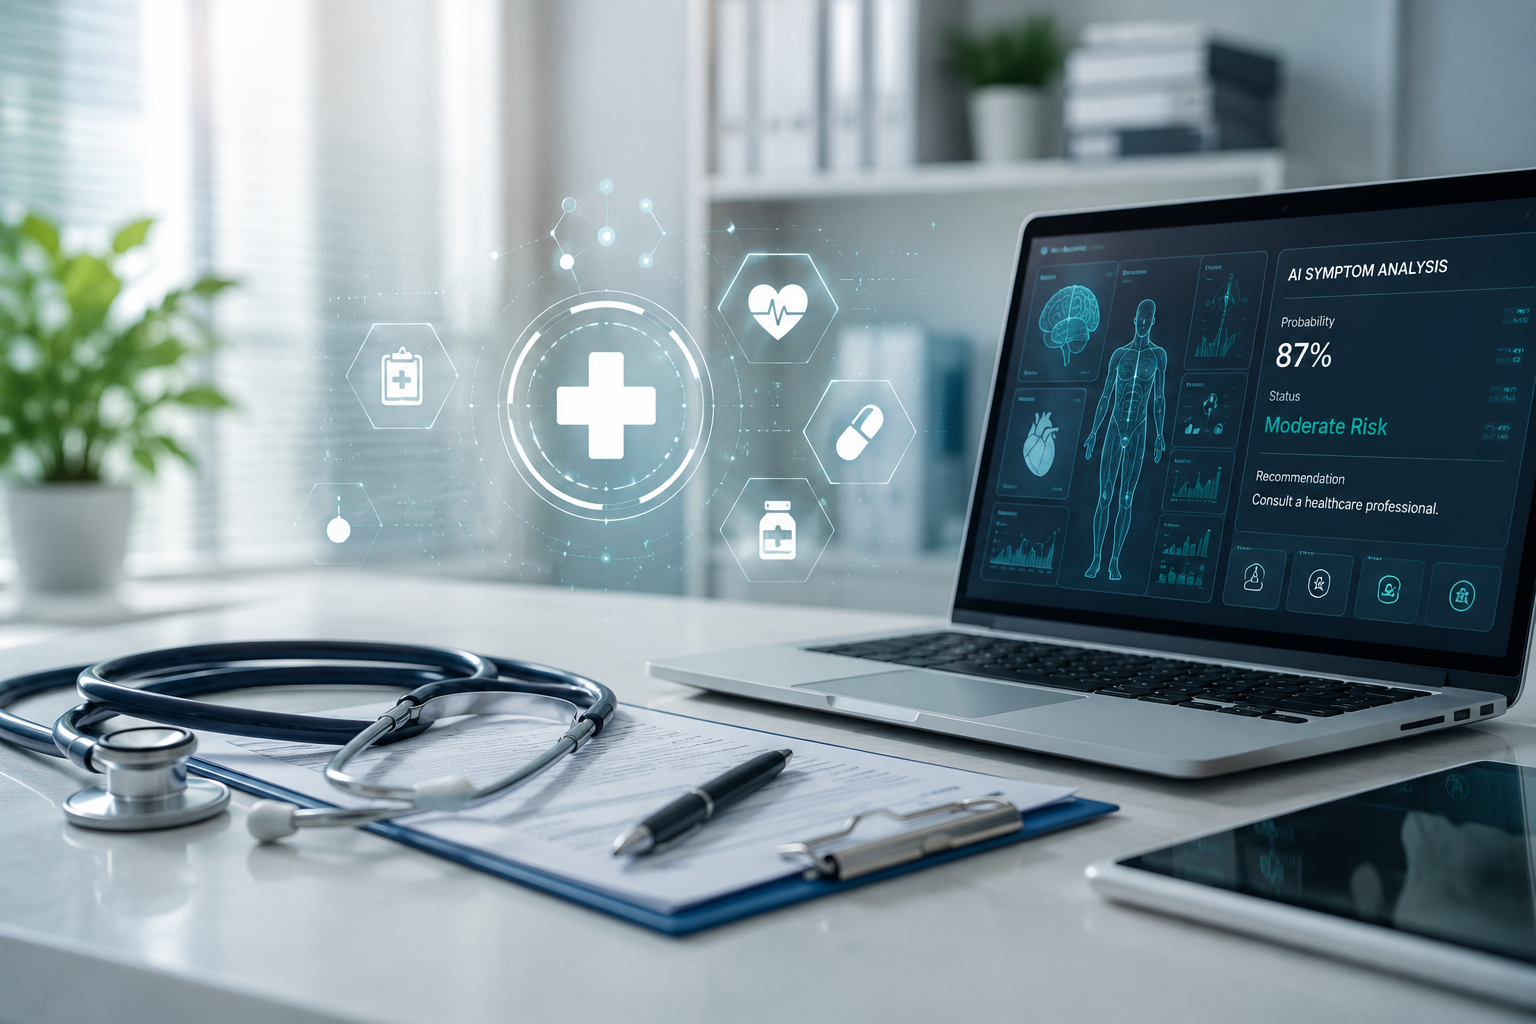
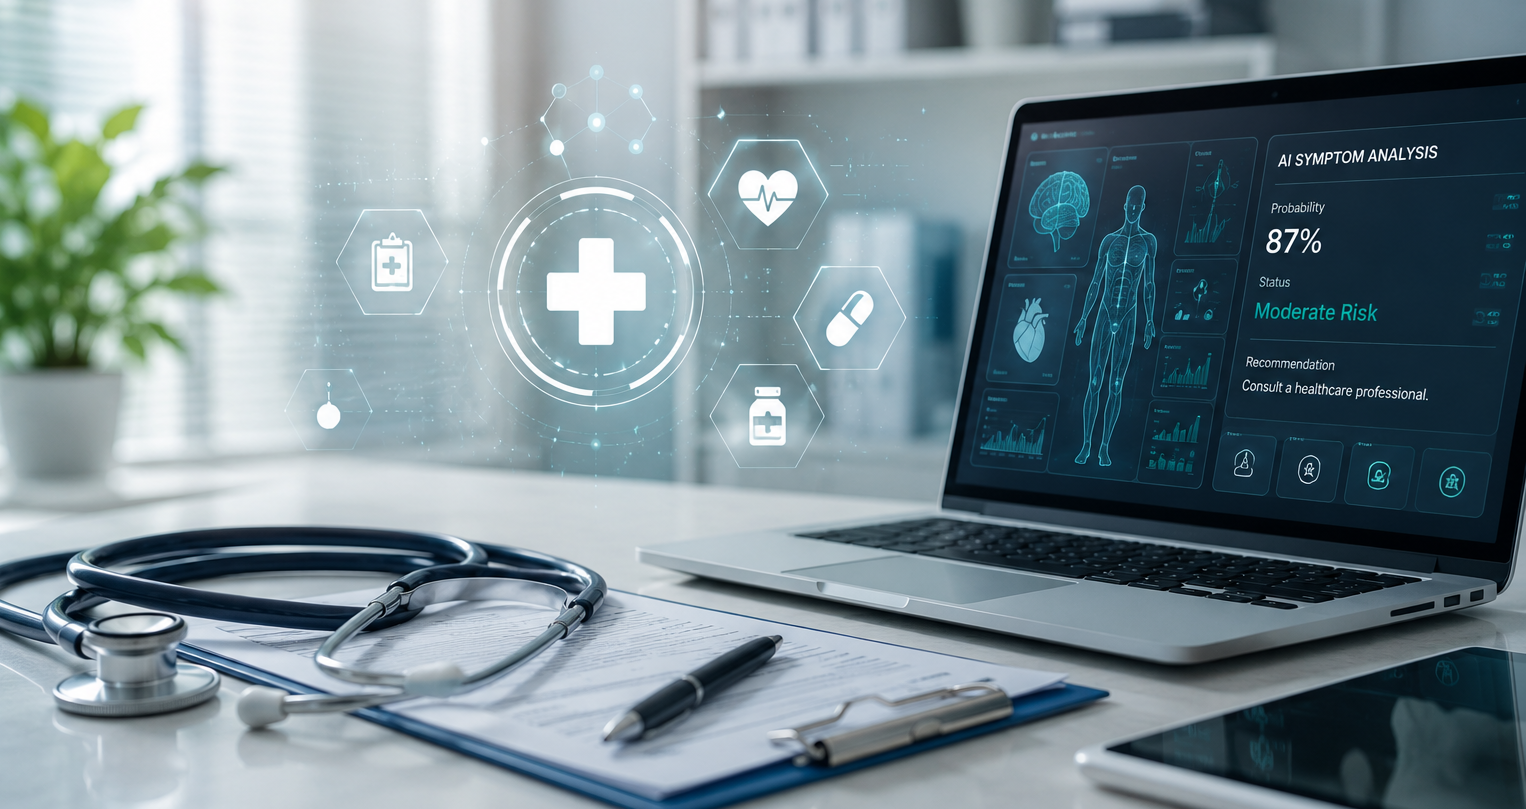
update button styles and layout in index.html

diff --git a/index.html b/index.html
@@ -70,7 +70,7 @@ body{
         <input type="password"
             placeholder="Password"
             class="w-full border p-3 rounded-xl mb-6">
-        <button class="w-full bg-emerald-600 text-white py-3 rounded-xl hover:bg-emerald-700">
+        <button class="w-full bg-blue-600 text-white py-3 rounded-xl hover:bg-blue-700">
             Login
         </button>
     </div>
@@ -100,7 +100,7 @@ body{
         <input type="password"
             placeholder="Password"
             class="w-full border p-3 rounded-xl mb-6">
-        <button class="w-full bg-emerald-600 text-white py-3 rounded-xl hover:bg-emerald-700">
+        <button class="w-full bg-blue-600 text-white py-3 rounded-xl hover:bg-blue-700">
             Create Account
         </button>
     </div>
@@ -108,7 +108,7 @@ body{
 
 <!-- HERO SECTION -->
 
-<section id="home" class="relative overflow-hidden min-h-screen">
+<section id="home" class="relative overflow-hidden min-h-[85vh] lg:min-h-[88vh]">
 
     <!-- Background Image -->
     <div class="absolute inset-0">
@@ -119,10 +119,10 @@ body{
     </div>
 
     <!-- Overlay -->
-    <div class="absolute inset-0 bg-white/30 backdrop-blur-[2px]"></div>
+    <div class="absolute inset-0 bg-gradient-to-r from-white/50 via-white/35 to-white/15"></div>
 
     <!-- Hero Content -->
-    <div class="relative z-10 max-w-7xl mx-auto px-6 pt-24 pb-56">
+    <div class="relative z-10 max-w-7xl mx-auto px-8 lg:px-10 pt-16 lg:pt-20 pb-32">
 
         <div class="grid lg:grid-cols-2 gap-12 items-center">
 
@@ -138,7 +138,7 @@ body{
                 </span>
 
                 <h1
-                    class="mt-6 text-6xl lg:text-7xl font-extrabold leading-tight text-slate-900">
+                    class="mt-5 text-5xl lg:text-6xl font-extrabold leading-tight text-slate-900">
 
                     Your Personal
 
@@ -153,7 +153,7 @@ body{
                 </h1>
 
                 <p
-                    class="mt-6 text-xl text-slate-900 max-w-xl leading-relaxed">
+                    class="mt-5 text-lg lg:text-xl text-slate-700 max-w-lg leading-8">
 
                     Understand symptoms, organize medical records,
                     track assessments, and discover nearby healthcare
@@ -165,7 +165,7 @@ body{
 
                     <a
                         href="assessment.html"
-                        class="bg-blue-600 hover:bg-blue-700 hover:scale-105 transition-all duration-300 text-white px-8 py-4 rounded-2xl font-semibold shadow-xl">
+                        class="bg-blue-600 hover:bg-blue-700 text-white px-7 py-3.5 rounded-2xl font-semibold shadow-lg hover:scale-105 transition">
 
                         🩺 Start Assessment
 
@@ -173,7 +173,7 @@ body{
 
                     <a
                         href="#how"
-                        class="border-2 border-blue-600 text-blue-600 hover:bg-blue-600 hover:text-white transition-all px-8 py-4 rounded-2xl font-semibold">
+                        class="border-2 border-blue-600 text-blue-600 px-7 py-3.5 rounded-2xl font-semibold hover:bg-blue-600 hover:text-white transition">
 
                         ▶ See How It Works
 
@@ -214,65 +214,6 @@ body{
                         <p class="text-slate-500 text-sm">
                             Find hospitals instantly
                         </p>
-                    </div>
-
-                </div>
-
-            </div>
-
-            <!-- RIGHT CONTENT -->
-
-            <div class="relative">
-
-
-                <!-- Assessment Card -->
-
-                <div
-                    class="absolute top-20 left-0 bg-white/75 backdrop-blur-xl rounded-3xl shadow-[0_20px_60px_rgba(0,0,0,0.2)] p-8 w-80 z-20"
-                    style="animation: floatCard 4s ease-in-out infinite;">
-
-                    <h3 class="font-bold text-xl text-slate-800">
-                        AI Assessment Result
-                    </h3>
-
-                    <div class="mt-6">
-
-                        <p class="text-slate-500">
-                            Possible Condition
-                        </p>
-
-                        <h4 class="text-blue-600 text-2xl font-bold">
-                            Viral Infection
-                        </h4>
-
-                    </div>
-
-                    <div class="mt-6">
-
-                        <p class="text-slate-500">
-                            Confidence Score
-                        </p>
-
-                        <div
-                            class="w-full bg-slate-200 h-3 rounded-full mt-3">
-
-                            <div
-                                class="bg-blue-600 h-3 rounded-full w-[87%]">
-                            </div>
-
-                        </div>
-
-                        <p class="font-bold mt-2">
-                            87%
-                        </p>
-
-                    </div>
-
-                    <div
-                        class="mt-5 inline-block bg-blue-100 text-blue-700 px-4 py-2 rounded-full font-medium">
-
-                        Moderate Risk
-
                     </div>
 
                 </div>
@@ -443,9 +384,9 @@ Our intelligent engine evaluates symptoms and predicts possible conditions.
 
 <div class="bg-white rounded-3xl p-8 shadow-xl text-center hover:-translate-y-3 transition">
 
-<div class="w-20 h-20 bg-cyan-100 rounded-full flex items-center justify-center mx-auto">
+<div class="w-20 h-20 bg-blue-100 rounded-full flex items-center justify-center mx-auto">
 
-<i class="fa-solid fa-heart-pulse text-3xl text-cyan-600"></i>
+<i class="fa-solid fa-heart-pulse text-3xl text-blue-600"></i>
 
 </div>
 
@@ -456,85 +397,6 @@ Get Guidance
 <p class="text-slate-600 mt-3">
 Receive risk assessments, recommendations, and nearby hospital suggestions.
 </p>
-
-</div>
-
-</div>
-
-</div>
-
-</section>
-
-<!-- DEMO SECTION -->
-<section class="py-24">
-
-<div class="max-w-6xl mx-auto px-6">
-
-<div class="text-center mb-12">
-
-<h2 class="text-5xl font-extrabold">
-AI Assessment Preview
-</h2>
-
-<p class="text-slate-600 mt-4">
-See how SymptomAI transforms symptoms into actionable insights.
-</p>
-
-</div>
-
-<div class="bg-white rounded-[40px] shadow-2xl p-10">
-
-<div class="flex justify-between items-center mb-8">
-
-<h3 class="text-3xl font-bold">
-Assessment Result
-</h3>
-
-<span class="bg-red-100 text-red-600 px-4 py-2 rounded-full">
-High Risk
-</span>
-
-</div>
-
-<div class="space-y-6">
-
-<div>
-<p class="text-slate-500">
-Possible Condition
-</p>
-<h4 class="text-2xl font-bold text-blue-600">
-Viral Infection
-</h4>
-</div>
-
-<div>
-<p class="text-slate-500">
-Confidence Score
-</p>
-
-<div class="w-full bg-slate-200 rounded-full h-4 mt-2">
-
-<div class="bg-blue-600 h-4 rounded-full w-[87%]"></div>
-
-</div>
-
-<p class="mt-2 font-semibold">
-87% Confidence
-</p>
-
-</div>
-
-<div class="bg-blue-50 border border-blue-200 rounded-2xl p-6">
-
-<h4 class="font-bold text-blue-700">
-Recommendation
-</h4>
-
-<p class="mt-2 text-slate-700">
-Stay hydrated, monitor symptoms, and consult a healthcare professional if symptoms worsen.
-</p>
-
-</div>
 
 </div>
 

diff --git a/assessment.html b/assessment.html
@@ -1134,7 +1134,7 @@ uploadedFileName;
 async function getGeminiAssessment(symptoms){
 
 const API_KEY =
-"api_key_here";
+"AQ.Ab8RN6LRkQLjjWLn9lmkVN2ZPd0VFnd8MAkGHcHsfX84cbJC5Q";
 
 try{
 